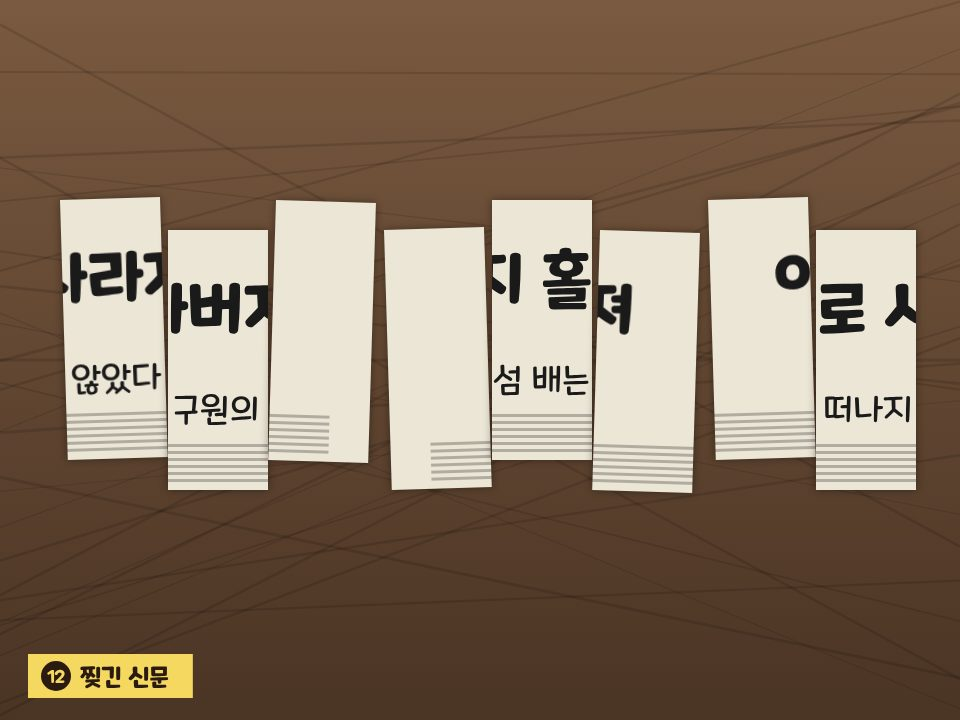
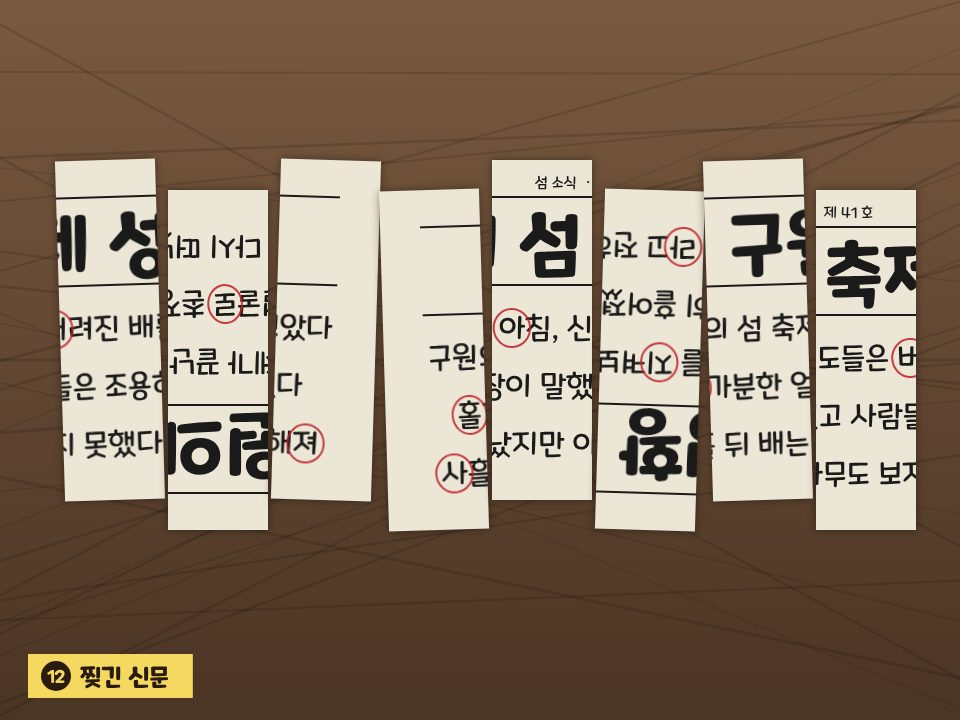
Toto room 12: flipped strips, decoy headline, circled syllables in the body
Claude-Session: https://claude.ai/code/session_01GyJEdcFjE828PDvtvLXbrE

Changed region(s): [[0.0312, 0.2139, 0.9688, 0.7639]]

diff --git a/public/dark.js b/public/dark.js
@@ -335,7 +335,7 @@ function totoRoom(){
     P(9, '우편 자루', '소인 날짜 순.', ['어서돌아와'], '주소 글씨를 바로 세워요'),
     P(10, '규칙 판', '지킬 수 없는 규칙 번호.', ['2', '2번'], '셋이 서로 따로면 안 돼요'),
     P(11, '서랍 속 매듭 끈', '배표 번호.', ['207', '207번'], '끊긴 끈은 붉은 끈으로'),
-    P(12, '찢긴 신문', '큰 제목.', ['아버지홀로사라져'], '글자 크기가 다른 조각'),
+    P(12, '찢긴 신문', '펜 자국.', ['아버지홀로사라져'], '거꾸로 붙은 조각이 둘'),
     P(13, '촌장 책상', '칠하면 보이는 것.', ['203'], '7 둘레는 거의 다 칠해요'),
     P(14, '후계자 규칙', '다음 큰 고래.', ['길태수'], '편지는 우편 자루에'),
     P(15, '마지막 문', '이름.', ['탁도현'], '⑬ ⑩ ⑭'),

diff --git a/docs/DARK_STORY.md b/docs/DARK_STORY.md
@@ -647,7 +647,7 @@
 | 9 | 우편 자루 | 우표 말 · 봉투가 돌아간 채 찍힘 → 주소 글씨로 바로 세워 각도 읽기 · 소인 날짜 순 | 어서돌아와 |
 | 10 | 규칙 판 | 두 동에 나눠 살기 · 따로 살 둘 열한 쌍 · 홀수 고리를 모두 끊는 규칙은 하나뿐 (계산 확인) | 2 |
 | 11 | 서랍 속 매듭 끈 | 매듭 자리 (백 · 십 · 일 긴 매듭) · 보기 23 · 105 · 이름 없는 끈 314 · 붉은 끈 (합) 649 · 배표 끈은 끊김 → 649 − 23 − 105 − 314 | 207 |
-| 12 | 찢긴 신문 | 세로 조각 여덟 · 큰 제목과 작은 제목이 섞임 → 글자 반쪽 맞추기 | 아버지홀로사라져 |
+| 12 | 찢긴 신문 | 세로 조각 여덟 (둘은 거꾸로) · 큰 제목 '구원의 섬 축제 성황' 은 미끼 → 반쪽 글자로 순서를 맞춘 뒤 본문의 펜 동그라미를 줄 순서대로 (아침 · 버려진 · 지켜 / 홀가분한 · 얼굴로 / 사흘 · 라고 · 전해져) | 아버지홀로사라져 |
 | 13 | 촌장 책상 | 점 그림 (숫자 = 자기 칸과 둘레 여덟 칸 중 칠한 수 · 답 하나뿐 확인) | 203 |
 | 14 | 후계자 규칙 | 해는 참회실에서 나온 해부터 다시 셈 (2025 기준) · 아들 6 해라 안 됨 · 정은수 16 해지만 섬 밖 편지 (⑨) · 오말순 · 길태수 15 해 → 고해가 적은 사람 | 길태수 |
 | 15 | 마지막 문 | ★ 에서 ⑬ 첫 숫자 2 북 · ⑩ 2 서 · ⑭ 글자 수 3 남 → 멈춘 칸 | 탁도현 |
